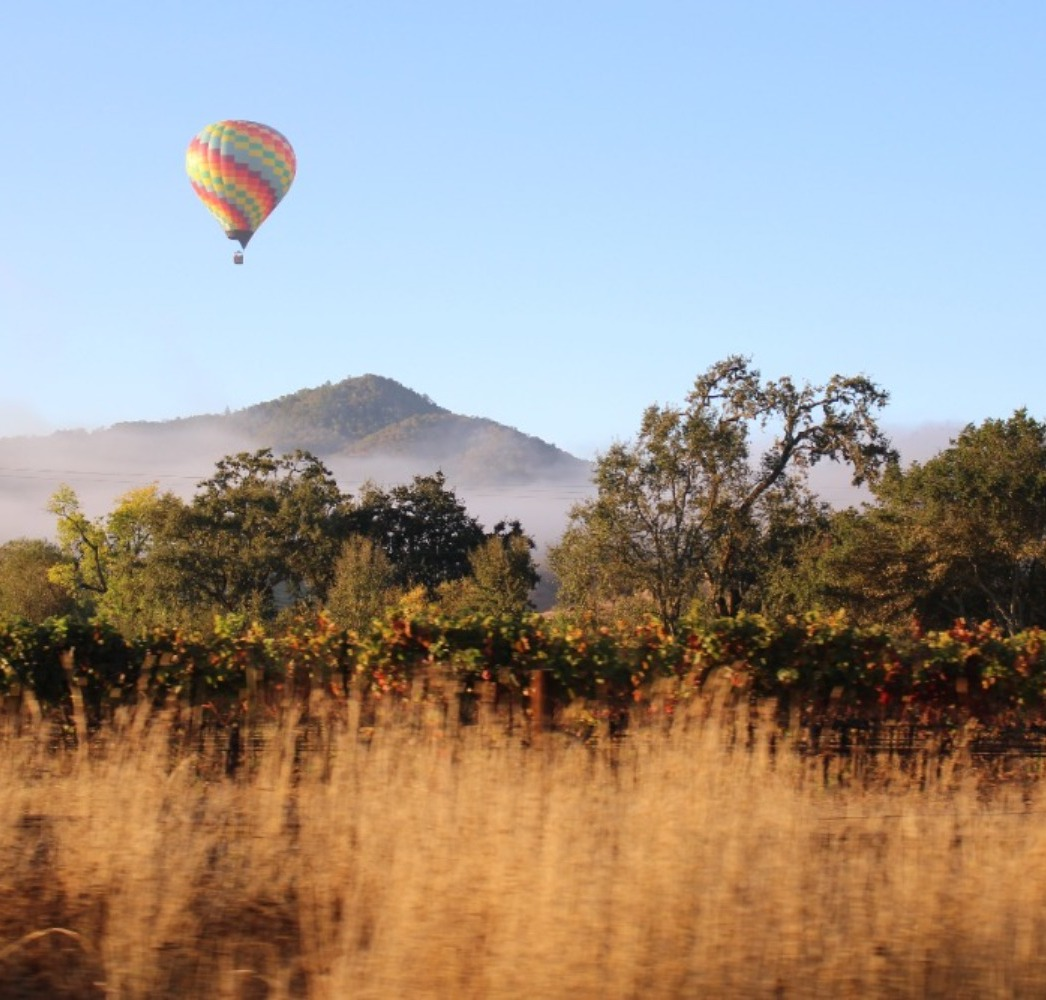
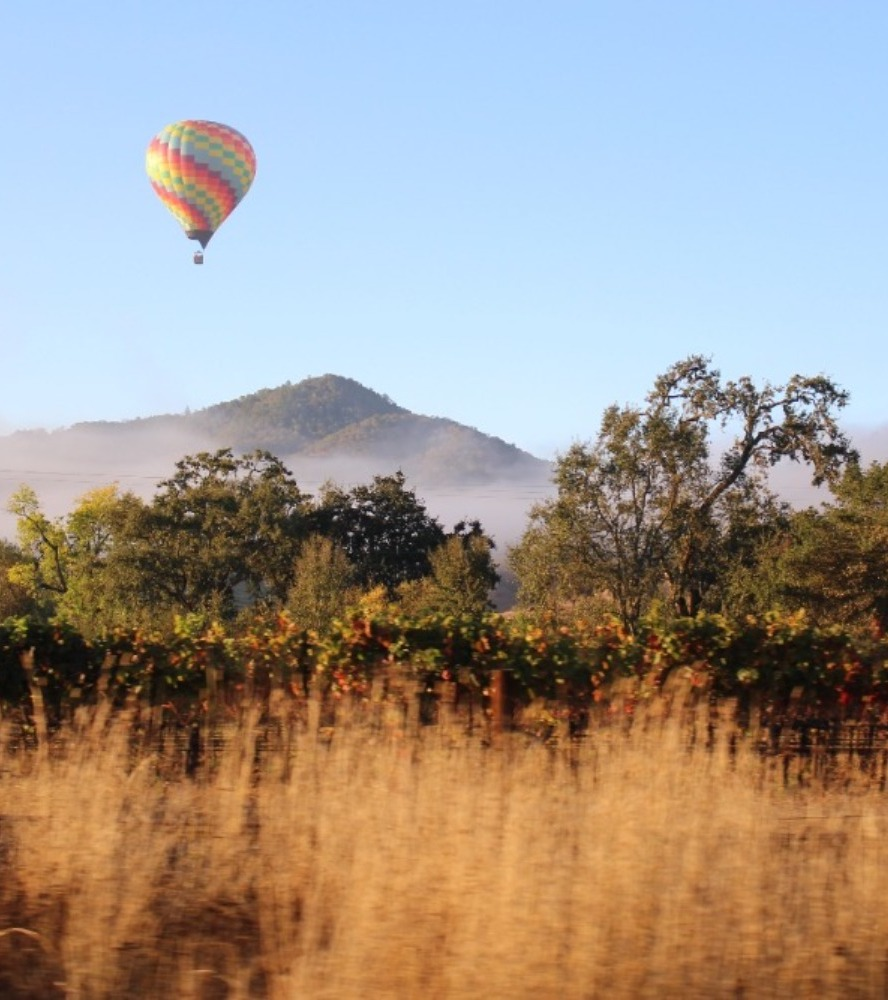
nwe

diff --git a/Lesson 4/chamber/index.html b/Lesson 4/chamber/index.html
@@ -12,6 +12,7 @@
             @import url("https://fonts.googleapis.com/css2?family=Cutive+Mono&display=swap");
         </style>
         <script src="js/index.js" defer></script>
+        <script src="js/windChill.js" defer></script>
         <script src="js/jsfooter.js" defer></script>
         <title>Chamber of Commerce - Napa</title>
         <link rel="shortcut icon" href="images/favicon.ico" />
@@ -50,14 +51,14 @@
                 <picture>
                     <source
                         media="(min-width:900px)"
-                        srcset="images/napavalley_large2.jpeg 1400w"
+                        srcset="images/napavalley_large2.jpeg"
                     />
                     <source
                         media="(min-width:800px)"
-                        srcset="images/napavalley_medium.jpeg 800w"
+                        srcset="images/napavalley_medium.jpeg"
                     />
                     <img
-                        srcset="images/napavalley_small.jpeg 600w"
+                        src="images/napavalley_small.jpeg  "
                         alt="Image of Napa Valley and
                     hot air balloon"
                     />
@@ -88,8 +89,8 @@
 
             <div id="weatherEvents">
                 <section id="weather">
-                    <h4>Weather</h4>
-                    <p id="degree">33°C</p>
+                    <h4 id="h4Weather">Weather</h4>
+                    <p id="temp">33 <span>&#8451</span></p>
                     <img
                         class="icons"
                         src="images/cloudy.png"
@@ -97,13 +98,13 @@
                     />
                     <p>Partly Cloudy</p>
                     <hr />
-                    <p>Wind Speed: 2.5 km/h</p>
-                    <p>Wind Chill: N/A</p>
+                    <p >Wind Speed: <span id="WS">2.5</span> km/h</p>
+                    <p >Wind Chill: <span id="windChill"></span></p>
                 </section>
                 <section id="events">
                     <h4>Ribbon Cutting</h4>
                     <p>💎The Diamond Shack</p>
-                    <p>
+                    <p id="eventsP">
                         Join us for the grand opening of The Diamond Shack, Thursdat at
                         1:00pm. more info...
                     </p>

diff --git a/Lesson 4/chamber/css/large.css b/Lesson 4/chamber/css/large.css
@@ -11,12 +11,17 @@
         position: relative;
         margin-top: 10px;
     }
-    picture {
-        grid-column: 2/3;
-        grid-row: 2/3;
+    #hero img,
+    #hero source {
         width: 100%;
         height: 100%;
-        margin-right: 20%;
+    }
+
+    picture {
+        grid-column: 2/3;
+        grid-row: 1/3;
+        /* width: 100%;
+        height: 100%; */
     }
     #heroH3 {
         position: absolute;
@@ -30,18 +35,20 @@
         bottom: 30px;
         right: 10px;
     }
-    #news {
-        grid-column: 2/3;
-        grid-row: 3/4;
-    }
+
     #events {
+        grid-column: 1/2;
+        grid-row: 2/3;
+        padding-bottom: 50%;
+    }
+
+    #weather {
         grid-column: 1/2;
         grid-row: 1/2;
     }
-    #weather {
-        grid-column: 1/2;
-        grid-row: 2/3;
-        margin-bottom: 20px;
+    #h4Weather {
+        margin-bottom: 0;
+        margin-top: 10px;
     }
     #degree {
         position: relative;
@@ -58,6 +65,11 @@
         grid-template-columns: unset;
         grid-template-rows: unset;
         grid-row: 1/3;
+    }
+    #news {
+        grid-column: 2/3;
+        grid-row: 3/4;
+        width: 100%;
     }
     #join {
         grid-column: 1/2;

diff --git a/Lesson 4/chamber/css/base.css b/Lesson 4/chamber/css/base.css
@@ -51,10 +51,10 @@ body {
     margin-top: 10px;
     background-color: rgba(250, 240, 230, 0);
 }
-#hero,
-img {
-    width: 90%;
-    margin-left: 5%;
+#hero img,
+#hero source {
+    width: 100%;
+    height: 100%;
 }
 #heroH3 {
     position: absolute;
@@ -180,7 +180,7 @@ button {
 }
 section {
     display: block;
-    width: 90%;
+    width: 100%;
     margin: 0 auto;
     border: #0b3c49 solid 1px;
     border-radius: 8px;

diff --git a/Lesson 4/chamber/js/windChill.js b/Lesson 4/chamber/js/windChill.js
@@ -1,0 +1,13 @@
+//Windchill temperature
+
+const wind = document.querySelector("#WS").textContent;
+const temp = document.querySelector("#temp").textContent;
+
+const wc =
+    35.74 +
+    0.6215 * temp -
+    35.75 * Math.pow(wind, 0.16) +
+    0.4275 * temp * Math.pow(wind, 0.16);
+
+WC = Math.round(wc);
+const windChill = (document.querySelector("#windChill").innerHTML = WC);

diff --git a/Lesson 4/chamber/js/index.js b/Lesson 4/chamber/js/index.js
@@ -41,8 +41,3 @@ if (currentDate.getDay() == 1 || currentDate.getDay() == 2) {
     message.style.display = "block";
     console.log(currentDate.getDay());
 }
-
-//Windchill temperature
-
-chill = 0.0817 * (3.71 * Math.pow(wind, 0.5) + 5.81 - 0.25 * wind) * (temp - 91.4) + 91.4;
-form.windchill.value = chill;

diff --git a/Lesson 4/chamber/css/medium.css b/Lesson 4/chamber/css/medium.css
@@ -9,10 +9,10 @@
         position: relative;
         margin-top: 10px;
     }
-    #hero,
-    img {
-        width: 90%;
-        margin-left: 5%;
+    #hero img,
+    #hero source {
+        width: 100%;
+        height: 100%;
     }
     #heroH3 {
         position: absolute;
